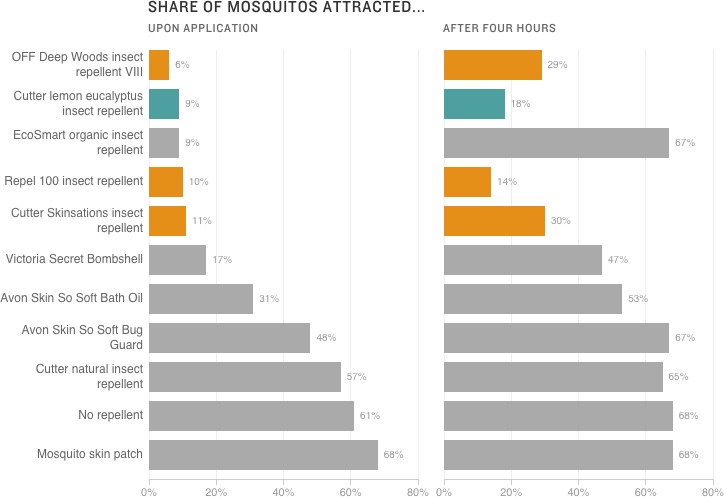
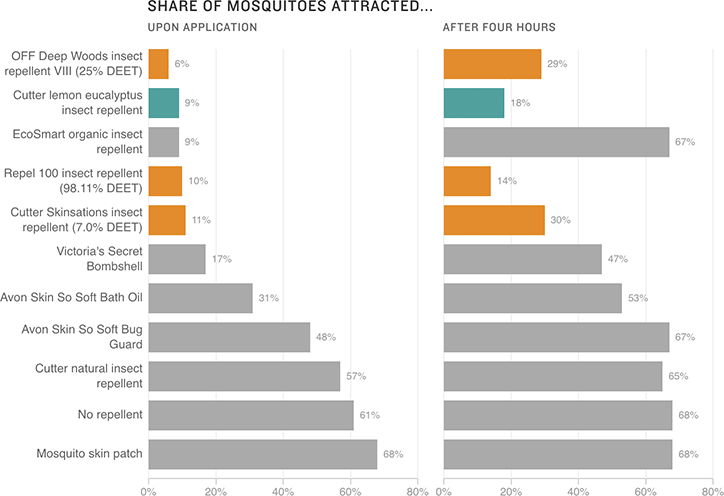
update mosquito-repellent-20160128

diff --git a/2016/01/mosquito-repellent-20160128/child.html b/2016/01/mosquito-repellent-20160128/child.html
@@ -43,13 +43,13 @@
 
     <!-- CSS + LESS -->
     
-    <link rel="stylesheet" type="text/css" href="css/graphic-header.css?1519335631" />
+    <link rel="stylesheet" type="text/css" href="css/graphic-header.css?1530629247" />
 </head>
 <body>
     <!-- Analytics -->
     
     
-    <script type="text/javascript" src="js/graphic-header.js?1519335631"></script>
+    <script type="text/javascript" src="js/graphic-header.js?1530629247"></script>
 
     
 
@@ -73,7 +73,7 @@
     </div>
 
     <script type="text/javascript">
-        var DATA = [{"label": "OFF Deep Woods insect repellent VIII (25% DEET)", "value_initial": "6.0", "value_120": "14.0", "value_240": "29.0", "has_deet": "deet", "Initial (\u00b1SE)": "6** (\u00b11.87)", "30 min (\u00b1SE)": "17** (\u00b11.22)", "120 min (\u00b1SE)": "14** (\u00b11.00)", "240 min (\u00b1SE)": "29** (\u00b13.32)"}, {"label": "Cutter lemon eucalyptus insect repellent", "value_initial": "9.0", "value_120": "13.0", "value_240": "18.0", "has_deet": null, "Initial (\u00b1SE)": "9** (\u00b12.45)", "30 min (\u00b1SE)": "8** (\u00b13.00", "120 min (\u00b1SE)": "13** (\u00b14.64)", "240 min (\u00b1SE)": "18** (\u00b13.74)"}, {"label": "EcoSmart organic insect repellent", "value_initial": "9.0", "value_120": "68.0", "value_240": "67.0", "has_deet": null, "Initial (\u00b1SE)": "9** (\u00b11.87)", "30 min (\u00b1SE)": "55 (\u00b13.16)", "120 min (\u00b1SE)": "68 (\u00b12.00)", "240 min (\u00b1SE)": "67 (\u00b13.39)"}, {"label": "Repel 100 insect repellent (98.11% DEET)", "value_initial": "10.0", "value_120": "15.0", "value_240": "14.0", "has_deet": "deet", "Initial (\u00b1SE)": "10** (\u00b11.58)", "30 min (\u00b1SE)": "18** (\u00b13.39)", "120 min (\u00b1SE)": "15** (\u00b15.24)", "240 min (\u00b1SE)": "14** (\u00b14.85)"}, {"label": "Cutter Skinsations insect repellent (7.0% DEET)", "value_initial": "11.0", "value_120": "17.0", "value_240": "30.0", "has_deet": "deet", "Initial (\u00b1SE)": "11** (\u00b13.67)", "30 min (\u00b1SE)": "22** (\u00b15.15)", "120 min (\u00b1SE)": "17** (\u00b12.55)", "240 min (\u00b1SE)": "30** (\u00b15.24)"}, {"label": "Victoria Secret Bombshell", "value_initial": "17.0", "value_120": "18.0", "value_240": "47.0", "has_deet": null, "Initial (\u00b1SE)": "17** (\u00b15.39)", "30 min (\u00b1SE)": "15** (\u00b15.24)", "120 min (\u00b1SE)": "18** (\u00b13.00)", "240 min (\u00b1SE)": "47 (\u00b15.39)"}, {"label": "Avon Skin So Soft Bath Oil", "value_initial": "31.0", "value_120": "43.0", "value_240": "53.0", "has_deet": null, "Initial (\u00b1SE)": "31** (\u00b11.00)", "30 min (\u00b1SE)": "35** (\u00b15.70)", "120 min (\u00b1SE)": "43* (\u00b16.04)", "240 min (\u00b1SE)": "53 (\u00b18.00)"}, {"label": "Avon Skin So Soft Bug Guard", "value_initial": "48.0", "value_120": "52.0", "value_240": "67.0", "has_deet": null, "Initial (\u00b1SE)": "48 (\u00b14.06)", "30 min (\u00b1SE)": "42* (\u00b12.55)", "120 min (\u00b1SE)": "52 (\u00b12.55)", "240 min (\u00b1SE)": "67 (\u00b15.15)"}, {"label": "Cutter natural insect repellent", "value_initial": "57.0", "value_120": "64.0", "value_240": "65.0", "has_deet": null, "Initial (\u00b1SE)": "57 (\u00b13.39)", "30 min (\u00b1SE)": "47 (\u00b14.06)", "120 min (\u00b1SE)": "64 (\u00b11.87)", "240 min (\u00b1SE)": "65 (\u00b16.12)"}, {"label": "No repellent", "value_initial": "61.0", "value_120": "58.0", "value_240": "68.0", "has_deet": null, "Initial (\u00b1SE)": "61 (\u00b14.30)", "30 min (\u00b1SE)": "61 (\u00b14.00)", "120 min (\u00b1SE)": "58 (\u00b12.00)", "240 min (\u00b1SE)": "68 (\u00b13.39)"}, {"label": "Mosquito skin patch", "value_initial": "68.0", "value_120": "48.0", "value_240": "68.0", "has_deet": null, "Initial (\u00b1SE)": "68 (\u00b15.10)", "30 min (\u00b1SE)": "67 (\u00b15.61)", "120 min (\u00b1SE)": "48 (\u00b14.90)", "240 min (\u00b1SE)": "68 (\u00b15.15)"}];
+        var DATA = [{"label": "OFF Deep Woods insect repellent VIII (25% DEET)", "value_initial": "6.0", "value_120": "14.0", "value_240": "29.0", "has_deet": "deet", "Initial (\u00b1SE)": "6** (\u00b11.87)", "30 min (\u00b1SE)": "17** (\u00b11.22)", "120 min (\u00b1SE)": "14** (\u00b11.00)", "240 min (\u00b1SE)": "29** (\u00b13.32)"}, {"label": "Cutter lemon eucalyptus insect repellent", "value_initial": "9.0", "value_120": "13.0", "value_240": "18.0", "has_deet": null, "Initial (\u00b1SE)": "9** (\u00b12.45)", "30 min (\u00b1SE)": "8** (\u00b13.00", "120 min (\u00b1SE)": "13** (\u00b14.64)", "240 min (\u00b1SE)": "18** (\u00b13.74)"}, {"label": "EcoSmart organic insect repellent", "value_initial": "9.0", "value_120": "68.0", "value_240": "67.0", "has_deet": null, "Initial (\u00b1SE)": "9** (\u00b11.87)", "30 min (\u00b1SE)": "55 (\u00b13.16)", "120 min (\u00b1SE)": "68 (\u00b12.00)", "240 min (\u00b1SE)": "67 (\u00b13.39)"}, {"label": "Repel 100 insect repellent (98.11% DEET)", "value_initial": "10.0", "value_120": "15.0", "value_240": "14.0", "has_deet": "deet", "Initial (\u00b1SE)": "10** (\u00b11.58)", "30 min (\u00b1SE)": "18** (\u00b13.39)", "120 min (\u00b1SE)": "15** (\u00b15.24)", "240 min (\u00b1SE)": "14** (\u00b14.85)"}, {"label": "Cutter Skinsations insect repellent (7.0% DEET)", "value_initial": "11.0", "value_120": "17.0", "value_240": "30.0", "has_deet": "deet", "Initial (\u00b1SE)": "11** (\u00b13.67)", "30 min (\u00b1SE)": "22** (\u00b15.15)", "120 min (\u00b1SE)": "17** (\u00b12.55)", "240 min (\u00b1SE)": "30** (\u00b15.24)"}, {"label": "Victoria's Secret Bombshell", "value_initial": "17.0", "value_120": "18.0", "value_240": "47.0", "has_deet": null, "Initial (\u00b1SE)": "17** (\u00b15.39)", "30 min (\u00b1SE)": "15** (\u00b15.24)", "120 min (\u00b1SE)": "18** (\u00b13.00)", "240 min (\u00b1SE)": "47 (\u00b15.39)"}, {"label": "Avon Skin So Soft Bath Oil", "value_initial": "31.0", "value_120": "43.0", "value_240": "53.0", "has_deet": null, "Initial (\u00b1SE)": "31** (\u00b11.00)", "30 min (\u00b1SE)": "35** (\u00b15.70)", "120 min (\u00b1SE)": "43* (\u00b16.04)", "240 min (\u00b1SE)": "53 (\u00b18.00)"}, {"label": "Avon Skin So Soft Bug Guard", "value_initial": "48.0", "value_120": "52.0", "value_240": "67.0", "has_deet": null, "Initial (\u00b1SE)": "48 (\u00b14.06)", "30 min (\u00b1SE)": "42* (\u00b12.55)", "120 min (\u00b1SE)": "52 (\u00b12.55)", "240 min (\u00b1SE)": "67 (\u00b15.15)"}, {"label": "Cutter natural insect repellent", "value_initial": "57.0", "value_120": "64.0", "value_240": "65.0", "has_deet": null, "Initial (\u00b1SE)": "57 (\u00b13.39)", "30 min (\u00b1SE)": "47 (\u00b14.06)", "120 min (\u00b1SE)": "64 (\u00b11.87)", "240 min (\u00b1SE)": "65 (\u00b16.12)"}, {"label": "No repellent", "value_initial": "61.0", "value_120": "58.0", "value_240": "68.0", "has_deet": null, "Initial (\u00b1SE)": "61 (\u00b14.30)", "30 min (\u00b1SE)": "61 (\u00b14.00)", "120 min (\u00b1SE)": "58 (\u00b12.00)", "240 min (\u00b1SE)": "68 (\u00b13.39)"}, {"label": "Mosquito skin patch", "value_initial": "68.0", "value_120": "48.0", "value_240": "68.0", "has_deet": null, "Initial (\u00b1SE)": "68 (\u00b15.10)", "30 min (\u00b1SE)": "67 (\u00b15.61)", "120 min (\u00b1SE)": "48 (\u00b14.90)", "240 min (\u00b1SE)": "68 (\u00b15.15)"}];
     </script>
 
 
@@ -86,7 +86,7 @@
 <script type="text/javascript" src="https://pym.nprapps.org/pym.v1.min.js"></script>
         
         
-        <script type="text/javascript" src="js/graphic-footer.js?1519335631"></script>
+        <script type="text/javascript" src="js/graphic-footer.js?1530629248"></script>
 
     
 </body>

diff --git a/2016/01/mosquito-repellent-20160128/css/graphic-header.css b/2016/01/mosquito-repellent-20160128/css/graphic-header.css
@@ -1,1 +1,1 @@
-html{-webkit-text-size-adjust:none}body{margin:0;padding:33px 0;font:14px/1.4 Helvetica,Arial,sans-serif;color:#555}h1{margin:0 0 33px 0;font-size:20px;color:#666;font-family:'Gotham SSm',Helvetica,Arial,sans-serif;font-weight:normal;line-height:1.3;font-weight:400;-webkit-font-smoothing:antialiased}h2{font-weight:normal;color:#777;font-size:12px;margin:-22px 0 22px 0;line-height:1.6}h3{margin:0 0 15px 0;font-family:'Knockout 31 4r';font-weight:normal;text-transform:uppercase;padding-top:0;line-height:1.2;letter-spacing:.05em;-webkit-font-smoothing:antialiased;font-size:12px;color:#333}.nowrap{white-space:nowrap}.footnotes{margin-bottom:20px}.footnotes h4{margin:2px 0 7px 0;color:#666;font-size:11px}.footnotes p,.footer p{margin:2px 0 0 0;font-size:11px;line-height:1.7;color:#999}.footer p{font-style:italic}.footer p em{font-style:normal}.footnotes p strong{color:#666}a,a:link,a:visited{color:#4774cc;text-decoration:none}a:hover,a:active{color:#bccae5}.graphic-wrapper{position:relative}.graphic{position:relative;margin-bottom:11px}.graphic:before,.graphic:after{content:' ';display:table}.graphic:after{clear:both}.graphic img{max-width:100%;height:auto}.key{margin:-11px 0 33px 0;padding:0;list-style-type:none}.key .key-item{display:inline-block;margin:0 18px 0 0;padding:0;line-height:15px}.key .key-item b{display:inline-block;width:15px;height:15px;margin-right:6px;float:left}.key .key-item label{white-space:nowrap;font-size:12px;color:#666;font-weight:normal;-webkit-font-smoothing:antialiased}svg{overflow:hidden}.axis{font-size:11px;-webkit-font-smoothing:antialiased;fill:#999}.axis path,.axis line{fill:none;stroke:#ccc;shape-rendering:crispEdges}.axis.y path{display:none}.axis.y .tick line{display:none}.grid path{display:none}.grid .tick{stroke:#eee;stroke-width:1px;shape-rendering:crispEdges}.grid.y g:first-child line{display:none}.zero-line{stroke:#666;stroke-width:1px;shape-rendering:crispEdges}line,rect{shape-rendering:crispEdges}.bars rect{fill:#17807e}.labels{position:absolute;margin:0;padding:0;list-style-type:none;border:none}.labels li{position:absolute;text-align:right;font-size:12px;line-height:1.3;color:#666;display:table;-webkit-font-smoothing:antialiased}.labels li span{display:table-cell;vertical-align:middle}.value text{font-size:10px;-webkit-font-smoothing:antialiased}.value text.in{fill:#fff}.value text.out{fill:#999}.text-highlight.highlight-deet{color:#e38d2c;font-weight:bold}.text-highlight.highlight-natural{color:#51a09e;font-weight:bold}#bar-chart .chart-wrapper{float:left}#bar-chart h3{margin-left:150px;margin-bottom:5px;font-size:12px}#bar-chart h3.initial-h3{font-size:16px}#bar-chart #chart-initial h3,#bar-chart #chart-240 h3{margin-bottom:15px;color:#666}#bar-chart #chart-240 h3{margin-left:10px}#bar-chart .bars rect{fill:#aaa}#bar-chart .bars rect.has-deet{fill:#e38d2c}#bar-chart .bars rect.cutter-lemon-eucalyptus-insect-repellent{fill:#51a09e}@media screen and (max-width:500px){#bar-chart .chart-wrapper{margin-bottom:20px}#bar-chart h3{margin:0 0 11px}#bar-chart .labels li span{line-height:1em}}
+html{-webkit-text-size-adjust:none}body{margin:0;padding:33px 0;font:14px/1.4 Helvetica,Arial,sans-serif;color:#555}h1{margin:0 0 33px 0;font-size:20px;color:#666;font-family:'Gotham SSm',Helvetica,Arial,sans-serif;font-weight:normal;line-height:1.3;font-weight:400;-webkit-font-smoothing:antialiased}h2{font-weight:normal;color:#777;font-size:12px;margin:-22px 0 22px 0;line-height:1.6}h3{margin:0 0 15px 0;font-family:'Knockout 31 4r';font-weight:normal;text-transform:uppercase;padding-top:0;line-height:1.2;letter-spacing:0.05em;-webkit-font-smoothing:antialiased;font-size:12px;color:#333}.nowrap{white-space:nowrap}.footnotes{margin-bottom:20px}.footnotes h4{margin:2px 0 7px 0;color:#666;font-size:11px}.footnotes p,.footer p{margin:2px 0 0 0;font-size:11px;line-height:1.7;color:#999}.footer p{font-style:italic}.footer p em{font-style:normal}.footnotes p strong{color:#666}a,a:link,a:visited{color:#4774CC;text-decoration:none}a:hover,a:active{color:#bccae5}.graphic-wrapper{position:relative}.graphic{position:relative;margin-bottom:11px}.graphic:before,.graphic:after{content:' ';display:table}.graphic:after{clear:both}.graphic img{max-width:100%;height:auto}.key{margin:-11px 0 33px 0;padding:0;list-style-type:none}.key .key-item{display:inline-block;margin:0 18px 0 0;padding:0;line-height:15px}.key .key-item b{display:inline-block;width:15px;height:15px;margin-right:6px;float:left}.key .key-item label{white-space:nowrap;font-size:12px;color:#666;font-weight:normal;-webkit-font-smoothing:antialiased}svg{overflow:hidden}.axis{font-size:11px;-webkit-font-smoothing:antialiased;fill:#999}.axis path,.axis line{fill:none;stroke:#ccc;shape-rendering:crispEdges}.axis.y path{display:none}.axis.y .tick line{display:none}.grid path{display:none}.grid .tick{stroke:#eee;stroke-width:1px;shape-rendering:crispEdges}.grid.y g:first-child line{display:none}.zero-line{stroke:#666;stroke-width:1px;shape-rendering:crispEdges}line,rect{shape-rendering:crispEdges}.bars rect{fill:#17807E}.labels{position:absolute;margin:0;padding:0;list-style-type:none;border:none}.labels li{position:absolute;text-align:right;font-size:12px;line-height:1.3;color:#666;display:table;-webkit-font-smoothing:antialiased}.labels li span{display:table-cell;vertical-align:middle}.value text{font-size:10px;-webkit-font-smoothing:antialiased}.value text.in{fill:#fff}.value text.out{fill:#999}.text-highlight.highlight-deet{color:#E38D2C;font-weight:bold}.text-highlight.highlight-natural{color:#51A09E;font-weight:bold}#bar-chart .chart-wrapper{float:left}#bar-chart h3{margin-left:150px;margin-bottom:5px;font-size:12px}#bar-chart h3.initial-h3{font-size:16px}#bar-chart #chart-initial h3,#bar-chart #chart-240 h3{margin-bottom:15px;color:#666}#bar-chart #chart-240 h3{margin-left:10px}#bar-chart .bars rect{fill:#aaa}#bar-chart .bars rect.has-deet{fill:#E38D2C}#bar-chart .bars rect.cutter-lemon-eucalyptus-insect-repellent{fill:#51A09E}@media screen and (max-width:500px){#bar-chart .chart-wrapper{margin-bottom:20px}#bar-chart h3{margin:0 0 11px}#bar-chart .labels li span{line-height:1em}}

diff --git a/2016/01/mosquito-repellent-20160128/index.html b/2016/01/mosquito-repellent-20160128/index.html
@@ -148,6 +148,26 @@
           padding: 0px 5px;
         }
 
+        .direct-link { margin-top: 22px; }
+        .direct-link input {
+            box-sizing: border-box;
+            max-width: 500px;
+            padding: 5px;
+            width: 100%;
+        }
+        .direct-link p {
+            font-size: 12px;
+            color: #666;
+        }
+        .direct-link blockquote {
+            background-color: #f1f1f1;
+            box-sizing: border-box;
+            font-style: italic;
+            margin: 0;
+            max-width: 500px;
+            padding: 10px;
+            width: 100%;
+        }
     </style>
 </head>
 <body>
@@ -196,8 +216,6 @@
         </div>
         <h2><span class="production">Production</span> embed code (for Seamus and NPR stations)</h2>
 
-        <h2><span class="production">This has been redeployed from a custom location. Check thoroughly before using in a new graphic.</span></h2>
-
 
     <p class="homepage"><input id="homepage" type="checkbox"> This code will be embedded on the NPR homepage. <em>(Infrequent use case.)</em></p>
 
@@ -205,6 +223,17 @@
     <textarea id="embed-code" readonly="readonly" rows="10" cols="80">
 <p data-pym-loader data-child-src="https://apps.npr.org/dailygraphics/graphics/mosquito-repellent-20160128/child.html" id="responsive-embed-mosquito-repellent-20160128">Loading...</p><script type="text/javascript" src="https://pym.nprapps.org/npr-pym-loader.v2.min.js"></script></textarea>
 <!-- end textarea contents -->
+
+        <div class="direct-link">
+            <h2><strong>Direct link</strong> (for users of the iOS app who can't see the embed)</h2>
+            <input value="https://apps.npr.org/dailygraphics/graphics/mosquito-repellent-20160128/child.html" />
+
+            <p>Link to the graphic where contextually appropriate in the text that leads into the graphic. For example:</p>
+            <blockquote>
+                <p><a href="https://apps.npr.org/dailygraphics/graphics/mosquito-repellent-20160128/child.html">The unemployment rate was unchanged</a> at 4.1 percent, the Bureau of Labor Statistics said in Friday's monthly update on the nation's economic health.</p>
+                <p>[ HTML asset with embedded chart ]</p>
+            </blockquote>
+        </div>
 
     </div>
     <script src="https://pym.nprapps.org/npr-pym-loader.v2.min.js" type="text/javascript"></script>
@@ -243,10 +272,11 @@
             var textarea = document.getElementById('embed-code');
             var text = textarea.innerHTML
             if (this.checked) {
-                text = text.replace('child.html"', 'child.html" data-carebot-skip');
+                text = text.replace('child.html"', 'child.html?mode=hp" data-carebot-skip');
                 textarea.innerHTML = text;
             } else {
                 text = text.replace(' data-carebot-skip', '');
+                text = text.replace('?mode=hp', '');
                 textarea.innerHTML = text;
             }
         });
